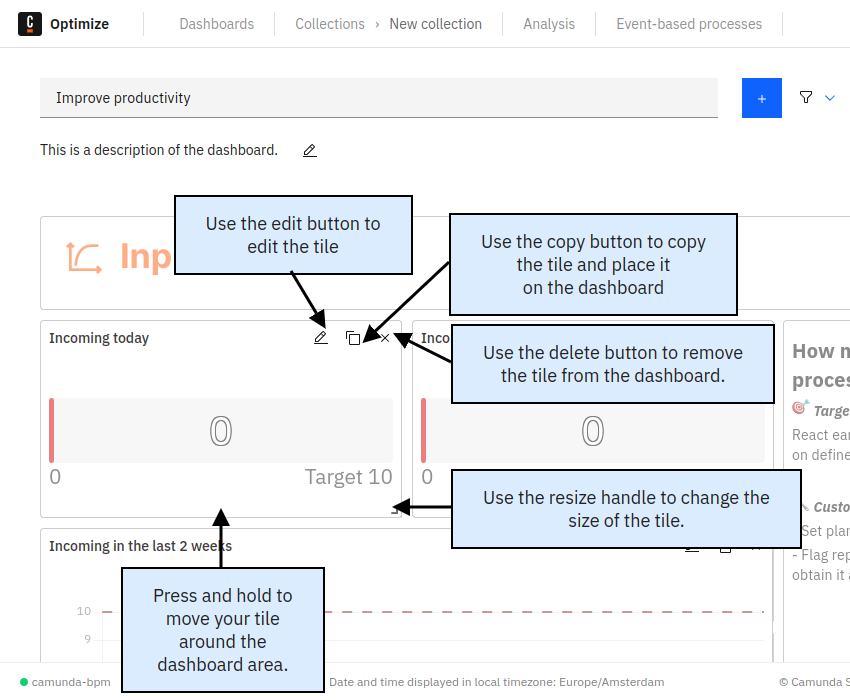
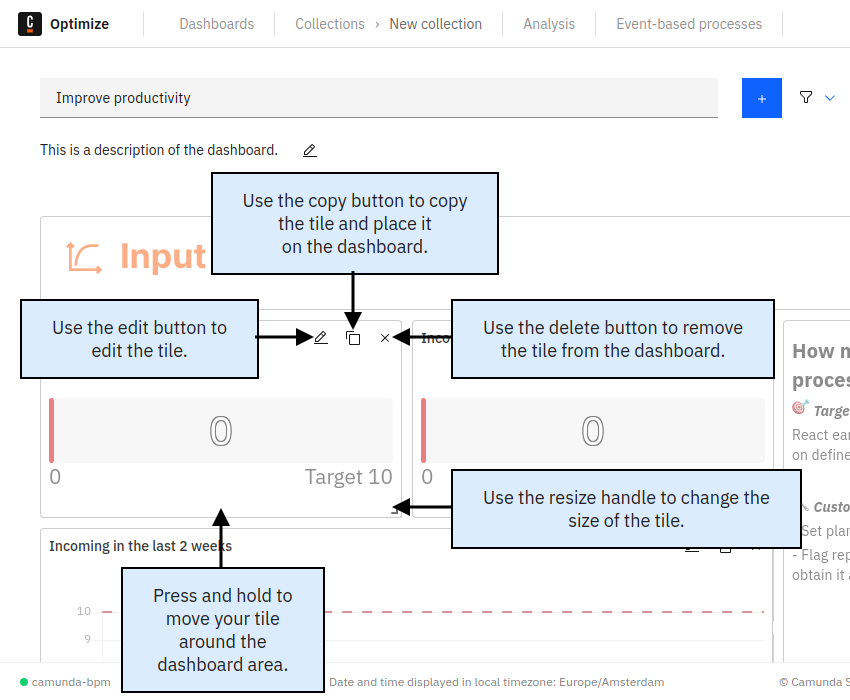
rewiew suggestions

Changed region(s): [[0.1835, 0.24, 0.9176, 0.6], [0.0, 0.39, 0.52, 0.54]]

diff --git a/optimize/components/userguide/edit-mode.md b/optimize/components/userguide/edit-mode.md
@@ -4,6 +4,10 @@ title: Edit mode
 description: "The edit mode allows you to configure the dashboard and adjust it to your needs."
 ---
 
+import TileEditButton from './img/tile-edit-button.png'
+import TileCopyButton from './img/tile-copy-button.png'
+import TileDeleteButton from './img/tile-delete-button.png'
+
 Configure and customize your dashboard in edit mode, performing operations such as renaming, modifying or removing descriptions, adding, editing, copying or removing tiles, saving changes, canceling applied changes, setting dashboard filters, and defining a default auto-refresh rate for periodic updates in [view mode](./view-mode.md).
 
 ![edit mode](./img/dashboard-dashboardEditActions.png)
@@ -34,13 +38,13 @@ In the **Add a Tile** modal, choose **Text** to access the text editor. This ena
 
 ![text editor](./img/dashboard-addAReportModal-textReport.png)
 
-## Copying, Editing, and Removing Tiles
+## Editing, copying, and removing tiles
 
-Each tile features a set of buttons in its top-right corner, providing you with options to edit and remove the tile. The 'Copy' button allows you to duplicate any tile, and the copied version can be conveniently placed anywhere on the dashboard. This duplicated tile is then customizable, enabling you to tailor it to your specific requirements.
+Each tile features a set of buttons in its top-right corner, providing you with options to edit <img src={TileEditButton} alt="Tile edit button"  /> and remove <img src={TileDeleteButton} alt="Tile delete button"  /> the tile. The copy button <img src={TileCopyButton} alt="Tile copy button"  /> allows you to duplicate any tile, and the copied version can be conveniently placed anywhere on the dashboard. This duplicated tile is then customizable, enabling you to tailor it to your specific requirements.
 
 ## Placing tile on the dashboard
 
-Move tiles within the dashboard by dragging them to your preferred location. Upon releasing the tile, it aligns with the nearest grid position. Resize tiles by dragging the handle in the lower right corner. Remove a tile by clicking the **X** button in the top right corner.
+Move tiles within the dashboard by dragging them to your preferred location. Upon releasing the tile, it aligns with the nearest grid position. Resize tiles by dragging the handle in the lower right corner. Remove a tile by clicking the <img src={TileDeleteButton} alt="Tile delete button"  /> button in the top right corner.
 
 ![edit actions](./img/dashboard-reportEditActions.png)
 
